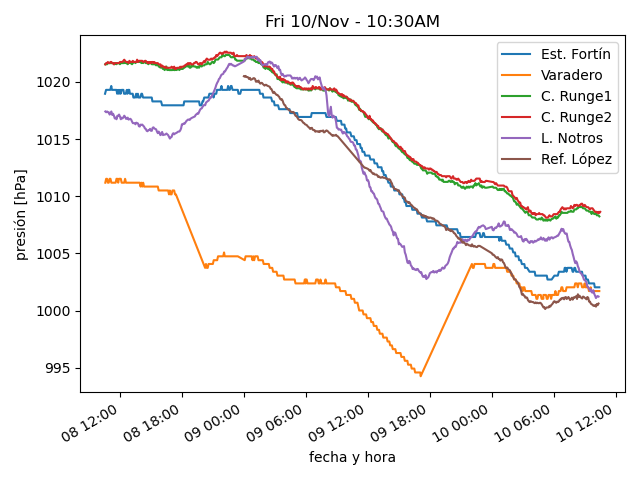
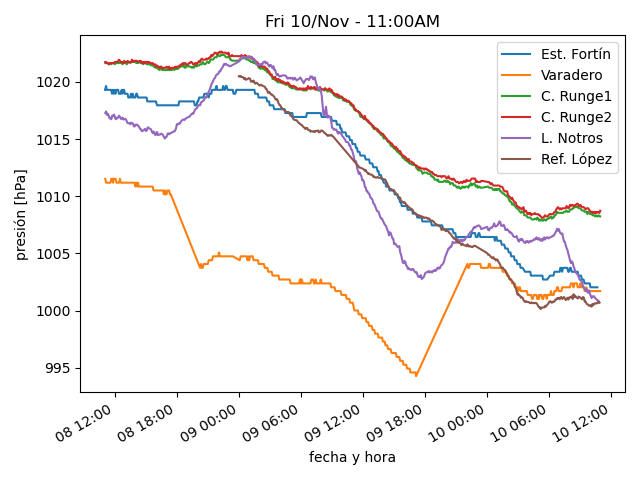
actualiza datos

diff --git a/estaciones/estacion3.html b/estaciones/estacion3.html
@@ -18,22 +18,22 @@
     </tr>
     <tr>
      <td class="stats_data">
-      10:24AM
+      10:54AM
      </td>
     </tr>
     <tr>
      <td class="stats_data">
-      12.7⁰C
+      12.6⁰C
      </td>
     </tr>
     <tr>
      <td class="stats_data">
-      4.9⁰C
+      4.3⁰C
      </td>
     </tr>
     <tr>
      <td class="stats_data">
-      58.8%
+      57.2%
      </td>
     </tr>
     <tr>
@@ -43,7 +43,7 @@
     </tr>
     <tr>
      <td class="stats_data">
-      12.2/18.5 km/hr NW
+      18.2/24.9 km/hr NNW
      </td>
     </tr>
     <tr>
@@ -53,12 +53,12 @@
     </tr>
     <tr>
      <td class="stats_data">
-      9.0
+      10.0
      </td>
     </tr>
     <tr>
      <td class="stats_data">
-      822.0 W/m²
+      878.9 W/m²
      </td>
     </tr>
    </tbody>

diff --git a/estaciones/estacion1.html b/estaciones/estacion1.html
@@ -18,22 +18,22 @@
     </tr>
     <tr>
      <td class="stats_data">
-      10:24AM
+      10:38AM
      </td>
     </tr>
     <tr>
      <td class="stats_data">
-      15.0⁰C
+      14.9⁰C
      </td>
     </tr>
     <tr>
      <td class="stats_data">
-      4.1⁰C
+      3.9⁰C
      </td>
     </tr>
     <tr>
      <td class="stats_data">
-      48.0%
+      47.5%
      </td>
     </tr>
     <tr>
@@ -43,7 +43,7 @@
     </tr>
     <tr>
      <td class="stats_data">
-      21.5/28.4 km/hr W
+      18.6/33.8 km/hr WNW
      </td>
     </tr>
     <tr>
@@ -53,12 +53,12 @@
     </tr>
     <tr>
      <td class="stats_data">
-      3.3
+      3.7
      </td>
     </tr>
     <tr>
      <td class="stats_data">
-      731.0 W/m²
+      761.0 W/m²
      </td>
     </tr>
    </tbody>

diff --git a/estaciones/estacion2.html b/estaciones/estacion2.html
@@ -18,22 +18,22 @@
     </tr>
     <tr>
      <td class="stats_data">
-      10:24AM
+      10:54AM
      </td>
     </tr>
     <tr>
      <td class="stats_data">
-      12.0⁰C
+      12.3⁰C
      </td>
     </tr>
     <tr>
      <td class="stats_data">
-      6.5⁰C
+      5.9⁰C
      </td>
     </tr>
     <tr>
      <td class="stats_data">
-      69.1%
+      65.1%
      </td>
     </tr>
     <tr>
@@ -43,7 +43,7 @@
     </tr>
     <tr>
      <td class="stats_data">
-      24.9/29.9 km/hr NW
+      29.1/33.3 km/hr NW
      </td>
     </tr>
     <tr>
@@ -53,12 +53,12 @@
     </tr>
     <tr>
      <td class="stats_data">
-      7.0
+      9.0
      </td>
     </tr>
     <tr>
      <td class="stats_data">
-      817.2 W/m²
+      970.4 W/m²
      </td>
     </tr>
    </tbody>

diff --git a/estaciones/estacion6.html b/estaciones/estacion6.html
@@ -18,32 +18,32 @@
     </tr>
     <tr>
      <td class="stats_data">
-      10:20AM
+      10:50AM
      </td>
     </tr>
     <tr>
      <td class="stats_data">
-      7.4⁰C
+      7.1⁰C
      </td>
     </tr>
     <tr>
      <td class="stats_data">
-      -1.6⁰C
+      -0.6⁰C
      </td>
     </tr>
     <tr>
      <td class="stats_data">
-      53.0%
+      58.0%
      </td>
     </tr>
     <tr>
      <td class="stats_data">
-      1002.0hPa
+      1002.07hPa
      </td>
     </tr>
     <tr>
      <td class="stats_data">
-      14.5/25.7 km/hr WSW
+      6.4/14.5 km/hr SSE
      </td>
     </tr>
     <tr>
@@ -58,7 +58,7 @@
     </tr>
     <tr>
      <td class="stats_data">
-      899.0 W/m²
+      888.0 W/m²
      </td>
     </tr>
    </tbody>

diff --git a/estaciones/estacion4.html b/estaciones/estacion4.html
@@ -18,32 +18,32 @@
     </tr>
     <tr>
      <td class="stats_data">
-      10:29AM
+      10:54AM
      </td>
     </tr>
     <tr>
      <td class="stats_data">
-      14.3⁰C
+      14.4⁰C
      </td>
     </tr>
     <tr>
      <td class="stats_data">
-      4.3⁰C
+      3.8⁰C
      </td>
     </tr>
     <tr>
      <td class="stats_data">
-      51.0%
+      49.0%
      </td>
     </tr>
     <tr>
      <td class="stats_data">
-      1005.62hPa
+      1005.72hPa
      </td>
     </tr>
     <tr>
      <td class="stats_data">
-      3.8/6.1 km/hr WSW
+      5.9/8.5 km/hr E
      </td>
     </tr>
     <tr>
@@ -58,7 +58,7 @@
     </tr>
     <tr>
      <td class="stats_data">
-      646.5 W/m²
+      706.7 W/m²
      </td>
     </tr>
    </tbody>

diff --git a/estaciones/estacion5.html b/estaciones/estacion5.html
@@ -18,32 +18,32 @@
     </tr>
     <tr>
      <td class="stats_data">
-      10:20AM
+      10:50AM
      </td>
     </tr>
     <tr>
      <td class="stats_data">
-      15.8⁰C
+      17.1⁰C
      </td>
     </tr>
     <tr>
      <td class="stats_data">
-      3.5⁰C
+      3.9⁰C
      </td>
     </tr>
     <tr>
      <td class="stats_data">
-      44.0%
+      41.0%
      </td>
     </tr>
     <tr>
      <td class="stats_data">
-      1003.79hPa
+      1003.29hPa
      </td>
     </tr>
     <tr>
      <td class="stats_data">
-      1.6/7.2 km/hr WSW
+      0.0/2.6 km/hr N
      </td>
     </tr>
     <tr>
